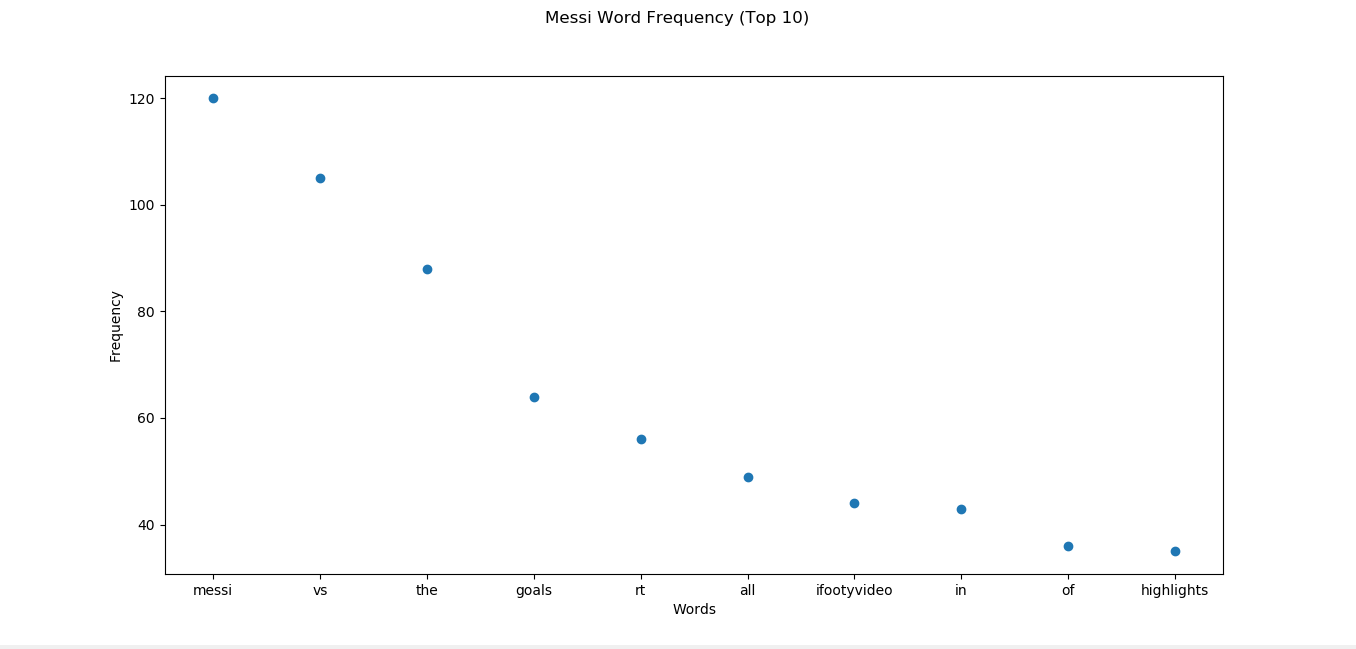
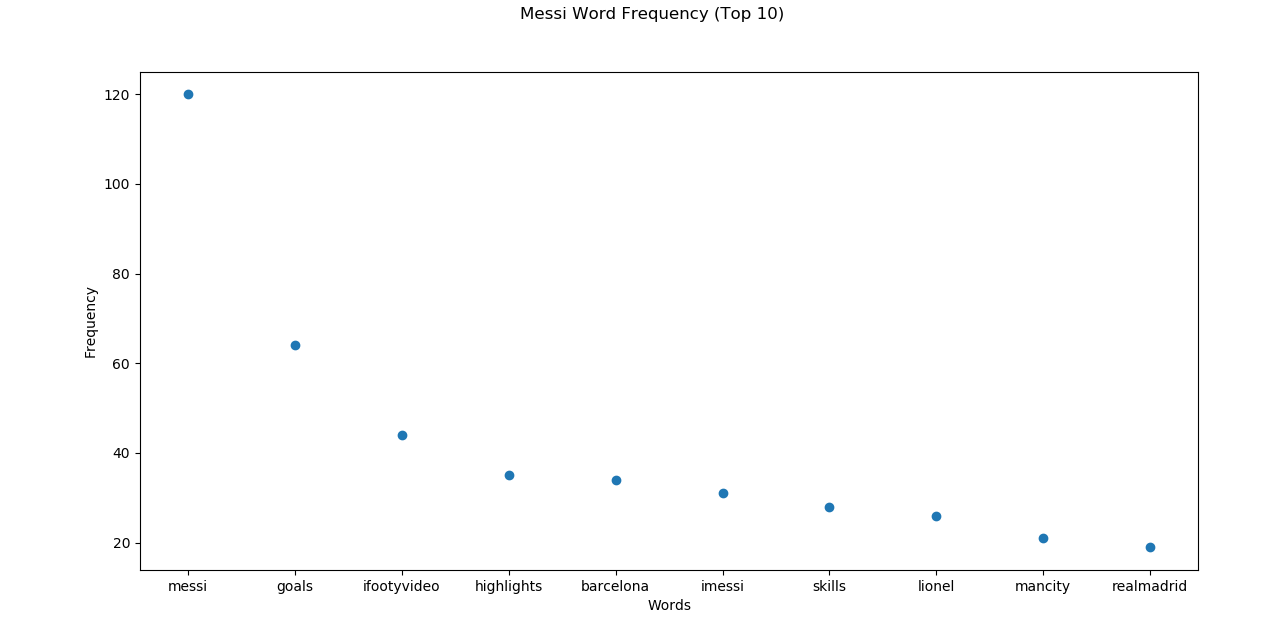
word cloud done

diff --git a/word_frequency.py b/word_frequency.py
@@ -8,7 +8,11 @@ import matplotlib.pyplot as plt
 import pickle
 from collections import Counter
 import re
-
+import numpy as np
+from PIL import Image
+from nltk.corpus import stopwords 
+from wordcloud import WordCloud
+from IPython.display import Image as im
 
 #Basic frequency distribution from words in tweets
 #loading from pickel cashed file 
@@ -23,6 +27,11 @@ with open('neymer.pkl', 'rb') as f:
     neymer_tweets  = pickle.load(f)
     
 
+stop_words = set(stopwords.words('english'))
+stop_words.update(['.', ',', '"', "'", '?', '!', ':', ';', '(', ')', '[', ']', '{', '}', 'rt', 'com', 'vs','de',
+                   'e', 'em', 'os', 'um', 'st', 'th', 'gt', 'il', 'la','é','ao', 'que','via', 'da', 'x', 'te',
+                   '👌', '⚽'])
+
 #Messi's word frequency distribution 
 
 #Creates 2D list. List of tweets of words.
@@ -32,9 +41,13 @@ messi_words = [tweet.text.split() for tweet in messi_tweets]
 messi_words = [y for x in messi_words
                    for y in x]
 #Getting rid of special characters
-messi_words = list(map(lambda x: re.sub("[0-9\.?@#%*,!&:/…-]", "", x).lower(), messi_words))
+messi_words = list(map(lambda x: re.sub("[0-9\.?@#%*,!&:/…-]", "", x).lower(), messi_words))                                      
+#Getting rid links
+messi_words = list(map(lambda x: re.sub("http\.*", "", x), messi_words))
 #Getting rid of empty string
 messi_words = list(filter(None, messi_words))
+ 
+messi_words = [w for w in messi_words if not w in stop_words] 
                                           
 #Counting the number of each words using Counter method
 messi_word_frequency = Counter(messi_words) 
@@ -55,12 +68,15 @@ ronaldo_words = [y for x in ronaldo_words
                    for y in x]
 #Getting rid of special characters
 ronaldo_words = list(map(lambda x: re.sub("[0-9\.?@#%*,!&:/…-]", "", x).lower(), ronaldo_words))
+#Getting rid links
+ronaldo_words = list(map(lambda x: re.sub("http\.*", "", x), ronaldo_words))
 #Getting rid of empty string
 ronaldo_words = list(filter(None, ronaldo_words))
+ronaldo_words = [w for w in ronaldo_words if not w in stop_words] 
                                           
 #Counting the number of each words using Counter method
 ronaldo_word_frequency = Counter(ronaldo_words)  
-
+print(ronaldo_word_frequency)
 #Top 10 words
 ronaldo_word_frequency_top10 = ronaldo_word_frequency.most_common()[:10]
 ronaldo_word_frequency_top10 = dict(ronaldo_word_frequency_top10)
@@ -77,16 +93,25 @@ neymer_words = [y for x in neymer_words
                    for y in x]
 #Getting rid of special characters
 neymer_words = list(map(lambda x: re.sub("[0-9\.?@#%*,!&:/…-]", "", x).lower(), neymer_words))
+
+#Getting rid links
+neymer_words = list(map(lambda x: re.sub("http\.*", "", x), neymer_words))
+
 #Getting rid of empty string
 neymer_words = list(filter(None, neymer_words))
+neymer_words = [w for w in neymer_words if not w in stop_words] 
                                           
 #Counting the number of each words using Counter method
 neymer_word_frequency = Counter(neymer_words)
+
 
 #Top 10 words
 neymer_word_frequency_top10 = neymer_word_frequency.most_common()[:10]
 neymer_word_frequency_top10 = dict(neymer_word_frequency_top10)
 
+
+
+'''
 #plotting the word frequency of messi, ronaldo, neymer
 
 #plotting messi
@@ -113,6 +138,47 @@ axN.set_xlabel('Words')
 axN.set_ylabel('Frequency')
 
 
+plt.show()
+
+'''
+#generating word cloud
+
+#Masking Cloud image for word cloud
+mask = np.array(Image.open('image/cloud.png'))
+
+#Messi word cloud
+wc = WordCloud(background_color="white", max_words=150, mask=mask)
+clean_string = ','.join(messi_words)
+
+wc.generate(clean_string)
+
+f = plt.figure(figsize=(100,100))
+plt.imshow(wc, interpolation='bilinear')
+plt.title('Messi Word Cloud', size=40)
+plt.axis("off")
+
+#Ronaldo word cloud
+wc = WordCloud(background_color="white", max_words=150, mask=mask)
+clean_string = ','.join(ronaldo_words)
+print(clean_string)
+wc.generate(clean_string)
+
+f = plt.figure(figsize=(100,100))
+plt.imshow(wc, interpolation='bilinear')
+plt.title('Ronaldo Word Cloud', size=40)
+plt.axis("off")
+
+#Neymer word cloud
+wc = WordCloud(background_color="white", max_words=150, mask=mask)
+clean_string = ','.join(neymer_words)
+wc.generate(clean_string)
+
+f = plt.figure(figsize=(100,100))
+plt.imshow(wc, interpolation='bilinear')
+plt.title('Neymer Word Cloud', size=40)
+plt.axis("off")
 
 
 plt.show()
+
+

diff --git a/caching_tweets.py b/caching_tweets.py
@@ -69,31 +69,5 @@ print(len(neymer_tweet_to_cache))
 
 
 
-#Device and client used by twitter accounts - Messi, Ronaldo, Neymer
 
 
-
-#Calculating twitter ration for twitter accounts -Messi, Ronaldo, Neymer
-
-'''
-for status in tweepy.Cursor(api.user_timeline, id="imessi").items(1):
-    print(status.text)
-    retweets = status.retweet_count
-    likes = status.favorite_count
-    replies_count = 0
-    status_id = status.id
-    
-    # fetching all the reply
-    for reply in tweepy.Cursor(api.search, q='@imessi', since_id = status_id).items():
-        print(reply.text)
-        if hasattr(reply, 'in_reply_to_status_id_str'):
-            if (reply.in_reply_to_status_id_str == status.id_str):
-                #print(reply.author.screen_name, "", reply.text, )
-                print("-------------------------------------")
-                replies_count += 1
-                
-    print(retweets, likes, replies_count) 
-        
-    print("-------------------------------------")
-    
-'''

diff --git a/sentiment_analysis.py b/sentiment_analysis.py
@@ -16,6 +16,7 @@ import nltk
 nltk.download('vader_lexicon')
 
 from nltk.sentiment.vader import SentimentIntensityAnalyzer
+from mpl_toolkits.mplot3d import Axes3D
 analyzer = SentimentIntensityAnalyzer()
 
 
